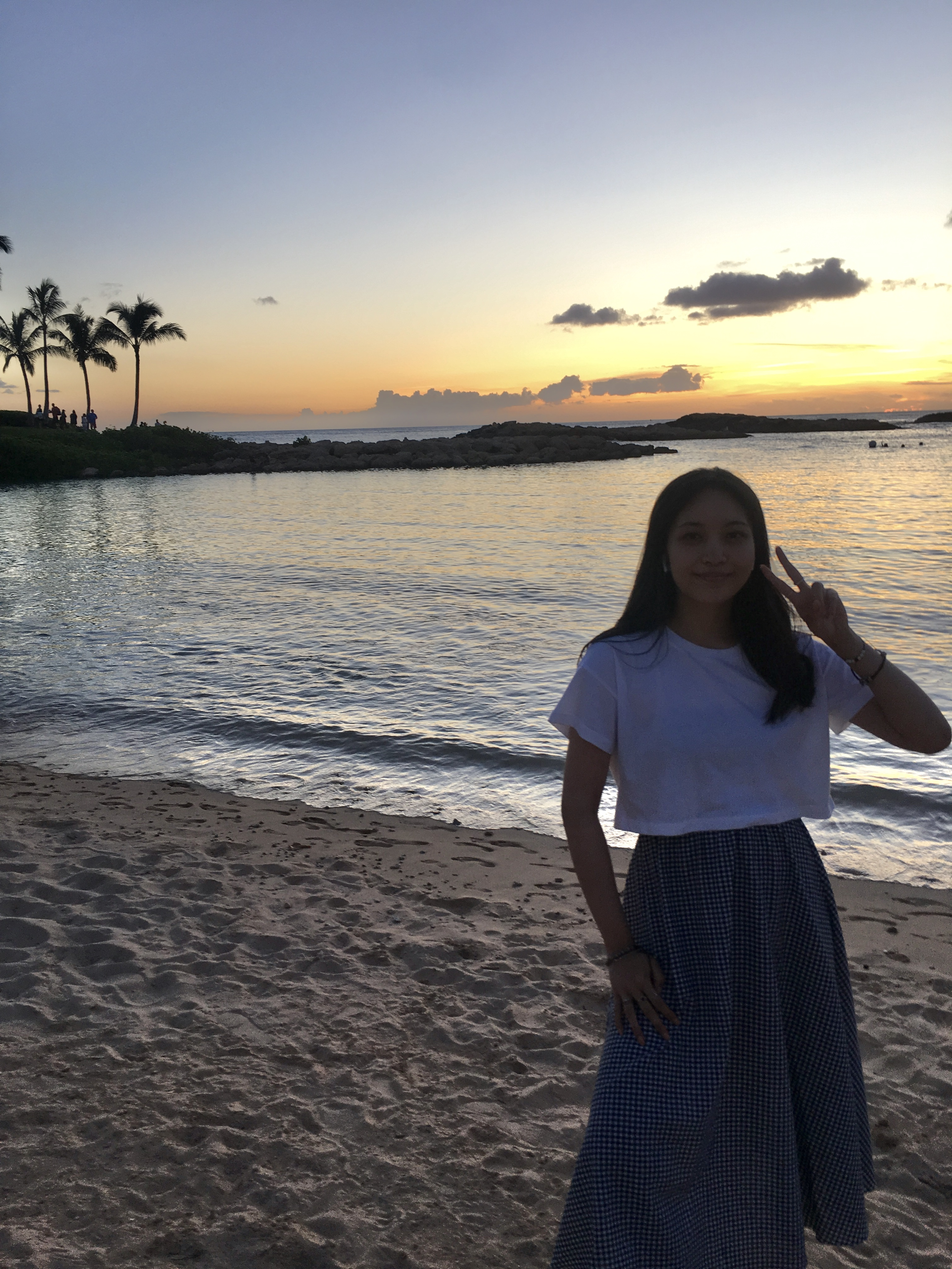
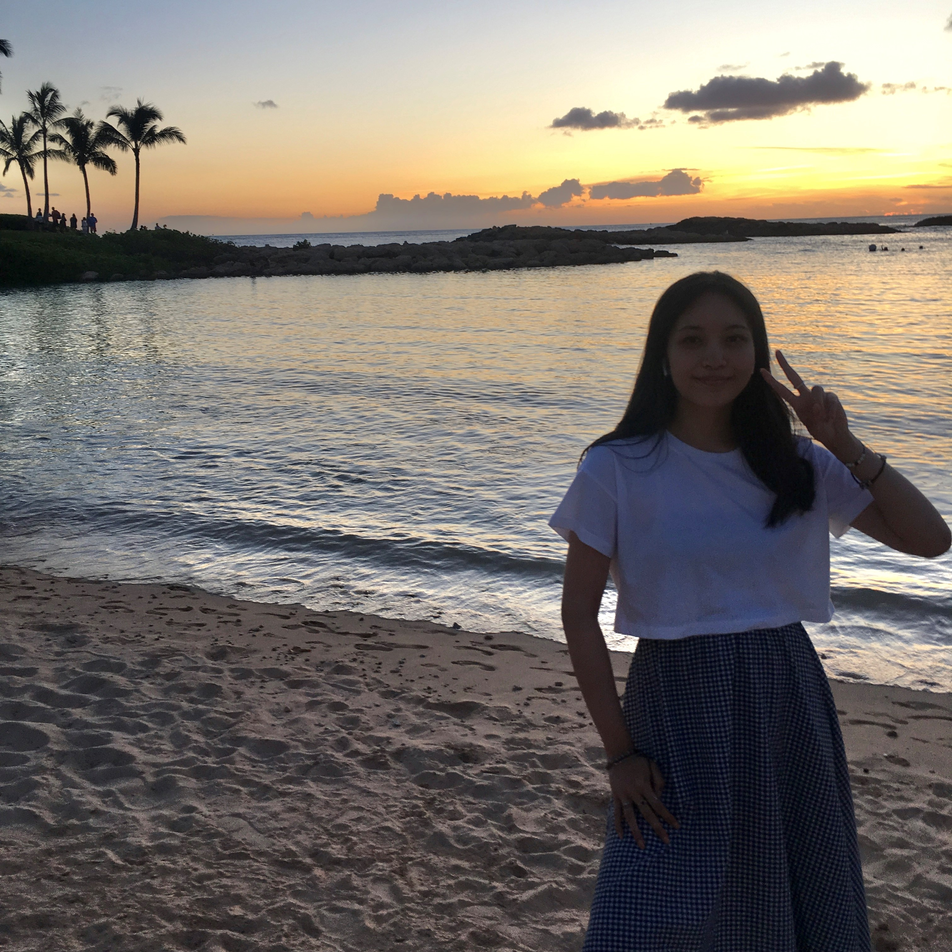
fixed about page more

diff --git a/about.html b/about.html
@@ -80,11 +80,11 @@
       <div class="container d-flex justify-content-center mt-5"></div>
     </div>
     <!-- About Me -->
-    <div class="about-me-section">
-      <div class="about-text">
-        <div class="col-md-7">
+    <div class="about-hero container">
+      <div class="about-text row">
+        <div class="col-md-7 text-center">
           <h2 class="about-header">about me</h2>
-          <p>
+          <p class="text-left">
             I am a front-end developer based in Alaska. I am currently learning
             about Responsive Web Development. My goals are to expand my
             knowledge of front-end development and eventually learn back-end
@@ -109,9 +109,9 @@
             >resume</a
           >
         </div>
-        <div class="col-md-3 text-center">
+        <div class="col-md-4 text-center">
           <img
-            class="img-fluid mt-3 mb-3 about-image"
+            class="img-fluid mt-3 mb-3 hero-image"
             src="images/me-beach.jpg"
             alt="Photo of Stephanie"
           />

diff --git a/style.css b/style.css
@@ -90,6 +90,7 @@ img {
   background-size: 400% 400%;
   animation: gradient 15s ease infinite;
   max-width: 100%;
+  overflow-x: auto;
 }
 
 @keyframes gradient {
@@ -220,7 +221,7 @@ img {
   color: white;
   border: 1.5px solid var(--secondary-color);
   background-color: var(--secondary-color);
-  transition: all 100ms ease-in-out;
+  transition: all 150ms ease-in-out;
 }
 
 .contact-title {
@@ -248,12 +249,17 @@ img {
   font-weight: 600;
 }
 
-.about-me-section {
+.about-hero {
   padding: 40px;
 }
 
 .about-header {
   padding-top: 20px;
+}
+
+.hero-image {
+  width: 300px;
+  border-radius: 5%;
 }
 
 div .social-icons a {
